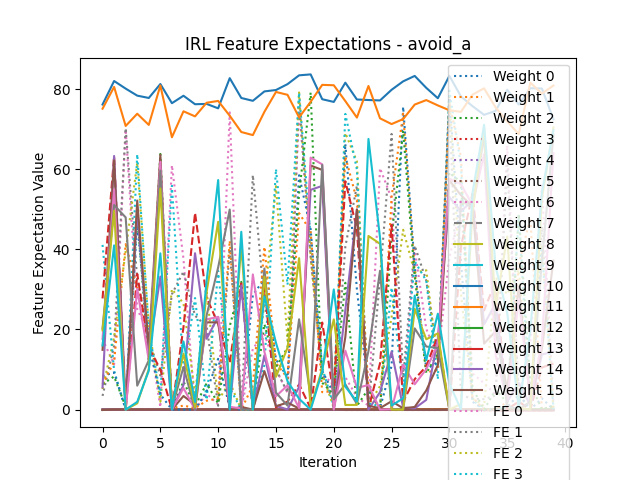
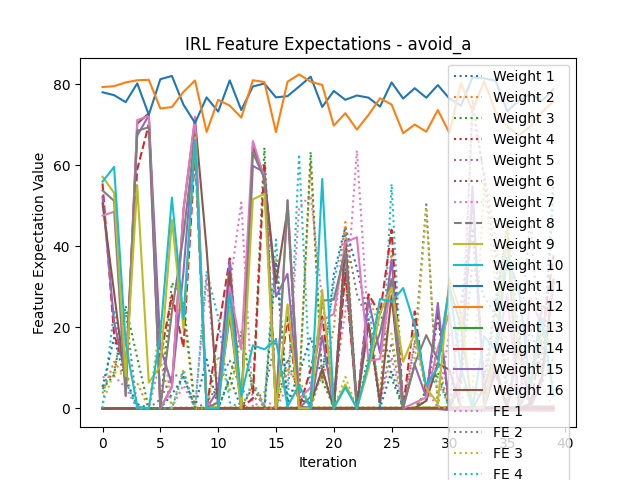
fixed FE plot bug

diff --git a/irl.py b/irl.py
@@ -218,7 +218,6 @@ def plot_weights(w_list, directory, pol_type):
     :return:
     """
     x = np.arange(len(w_list))
-    y = np.sin(x)
     for i in range(16):
         if i < 7:
             plt.plot(x, np.array(w_list)[:, i], label=f'Weight {i + 1}', linestyle='dotted')
@@ -231,6 +230,8 @@ def plot_weights(w_list, directory, pol_type):
     plt.ylabel('Reward Weight Value')
     plt.legend()
     plt.savefig(f'{directory}/ex_1_w_{pol_type}.png')
+    plt.clf()
+    plt.cla()
 
 
 def plot_fe(mu_list, directory, pol_type):
@@ -252,6 +253,8 @@ def plot_fe(mu_list, directory, pol_type):
     plt.ylabel('Feature Expectation Value')
     plt.legend()
     plt.savefig(f'{directory}/ex_1_fe_{pol_type}.png')
+    plt.clf()
+    plt.cla()
 
 
 def calculate_score(traj, w):
@@ -276,7 +279,7 @@ if __name__ == '__main__':
 
     dw = DroneWorld(500, 0, 0, 2)
     n_traj = 20  # Number of trajectories that are created by the expert policies
-    n_steps = 500  # Number of steps performed for each trajectory
+    n_steps = 200  # Number of steps performed for each trajectory
     pol_type = 'avoid_o'
     directory = f'traj/{pol_type}'
     generate_new_traj = True
@@ -308,19 +311,17 @@ if __name__ == '__main__':
         traj_list.append(traj)
 
     # --- Step 3: Execute IRL ---
-    w_list, mu_list = execute_irl(50, n_steps, 0.99, dw, traj_list)
+    w_list, mu_list = execute_irl(3, n_steps, 0.99, dw, traj_list)
 
     # --- Step 4: Plot Results ---
-    plot_weights(w_list)
-    plot_fe(mu_list)
+    plot_weights(w_list, 'results', pol_type)
+    plot_fe(mu_list, 'results', pol_type)
 
     # --- Step 5: Gather Scores ---
     w = w_list[-1]
 
     print('w:')
     print(w)
-    print('Traj 0:')
-    print(traj_list[0])
     score_e = calculate_score(traj_list[0], w)  # First expert trajectory
 
     # Generate random trajectory

diff --git a/ex_2.py b/ex_2.py
@@ -17,16 +17,23 @@ pol_comb = [
     ['avoid_a', 'avoid_o']
 ]
 
-generate_new_traj = True  # Flag that decides whether new trajectories should be recorded
 irl_iterations = 80
 n_traj = 100
 n_traj_training = 20
 n_steps = 500
 gamma = 0.99
+show_log = True
+generate_new_traj = True  # Flag that decides whether new trajectories should be recorded
+
 
 if __name__ == '__main__':
     # Iterate over all combinations of policies to generate results
     for comb in pol_comb:
+
+        if show_log:
+            print('-------------------------------')
+            print(f'Start of {comb[0]} vs {comb[1]}')
+            print('-------------------------------')
         dw = DroneWorld(500, 0, 0, 2)
         pol_1 = comb[0]
         pol_2 = comb[1]

diff --git a/ex_1.py b/ex_1.py
@@ -3,15 +3,15 @@ from irl import *
 
 # Change the following parameters as preferred:
 training_policies = [
-    'avoid_o',
-    'avoid_p',
-    'avoid_a',
-    'random'
+    #'avoid_o',
+    #'avoid_p',
+    'avoid_a'#,
+    #'random'
 ]
 
 n_traj = 20
-n_steps = 200
-irl_iterations = 40
+n_steps = 500
+irl_iterations = 80
 show_log = True
 generate_new_traj = True
 
